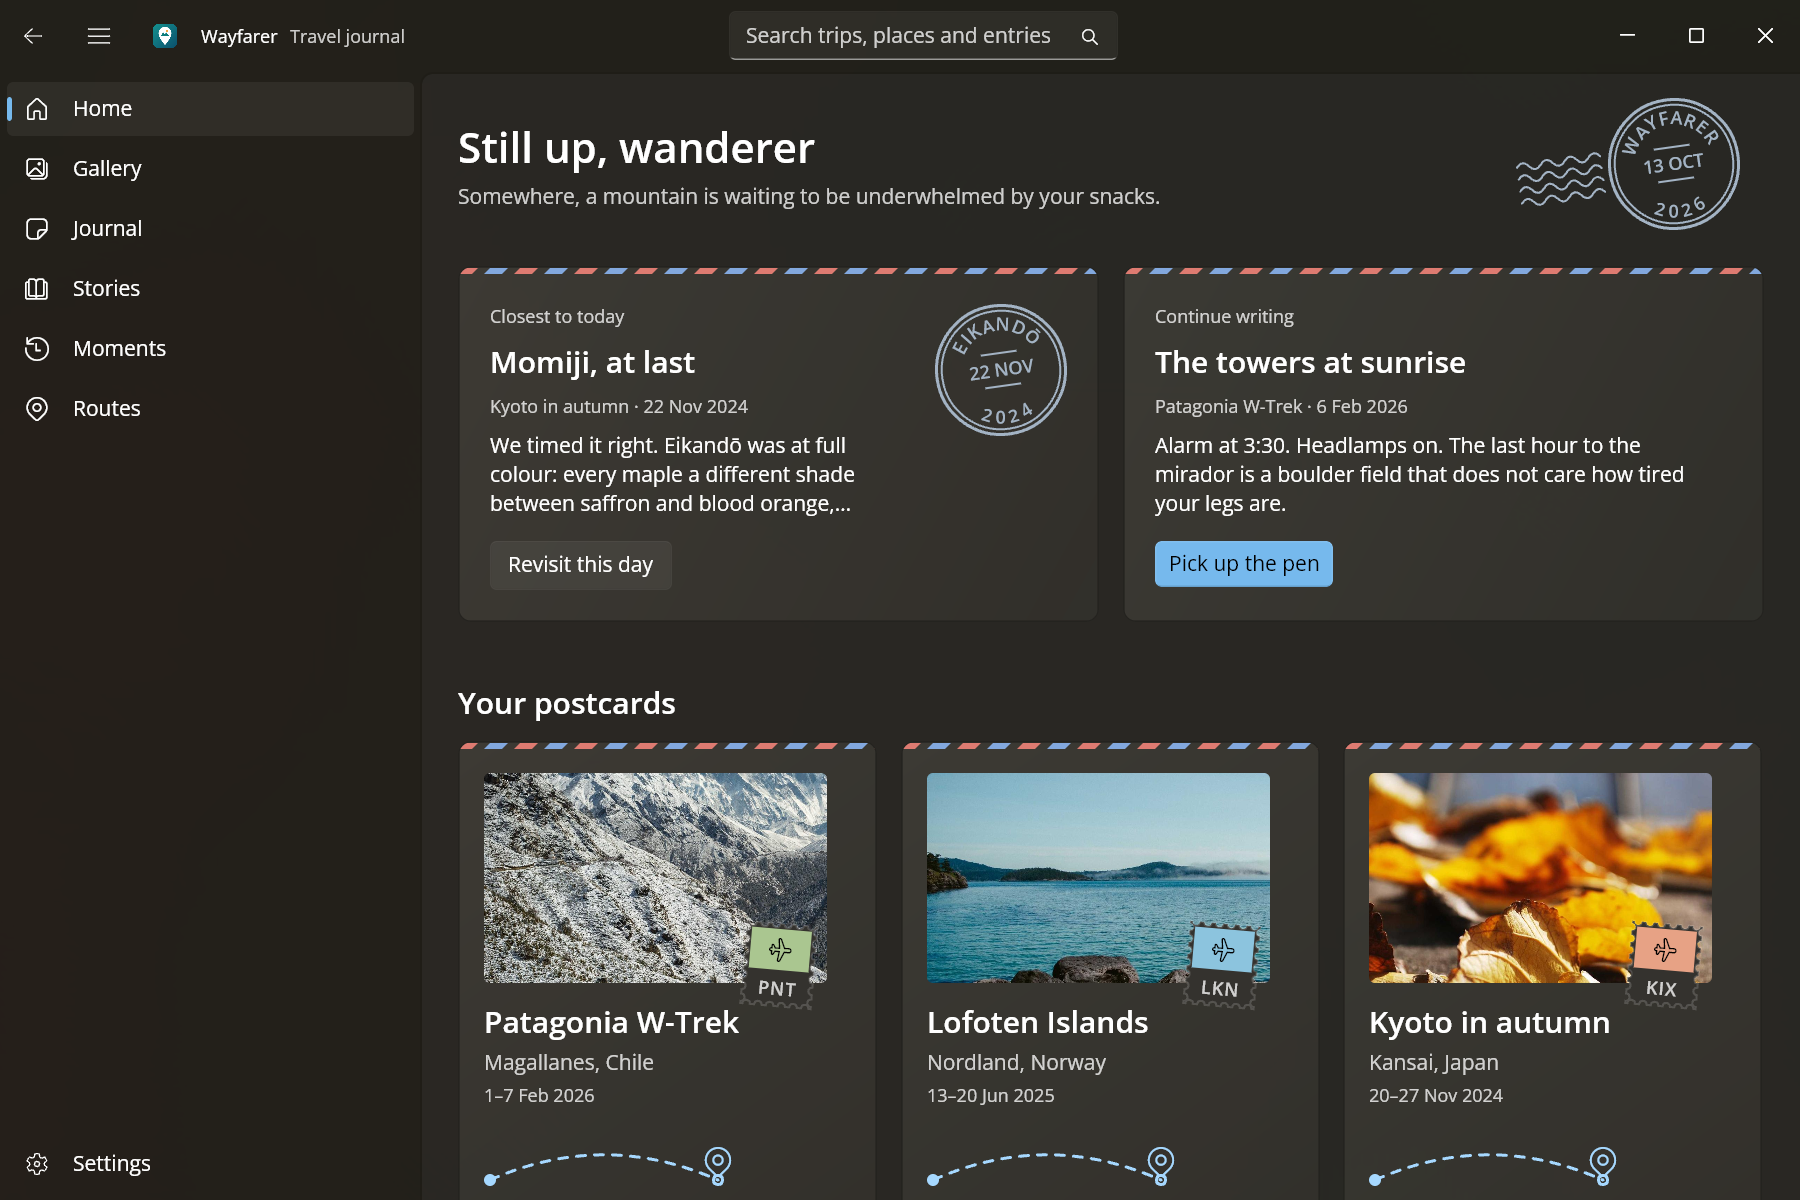
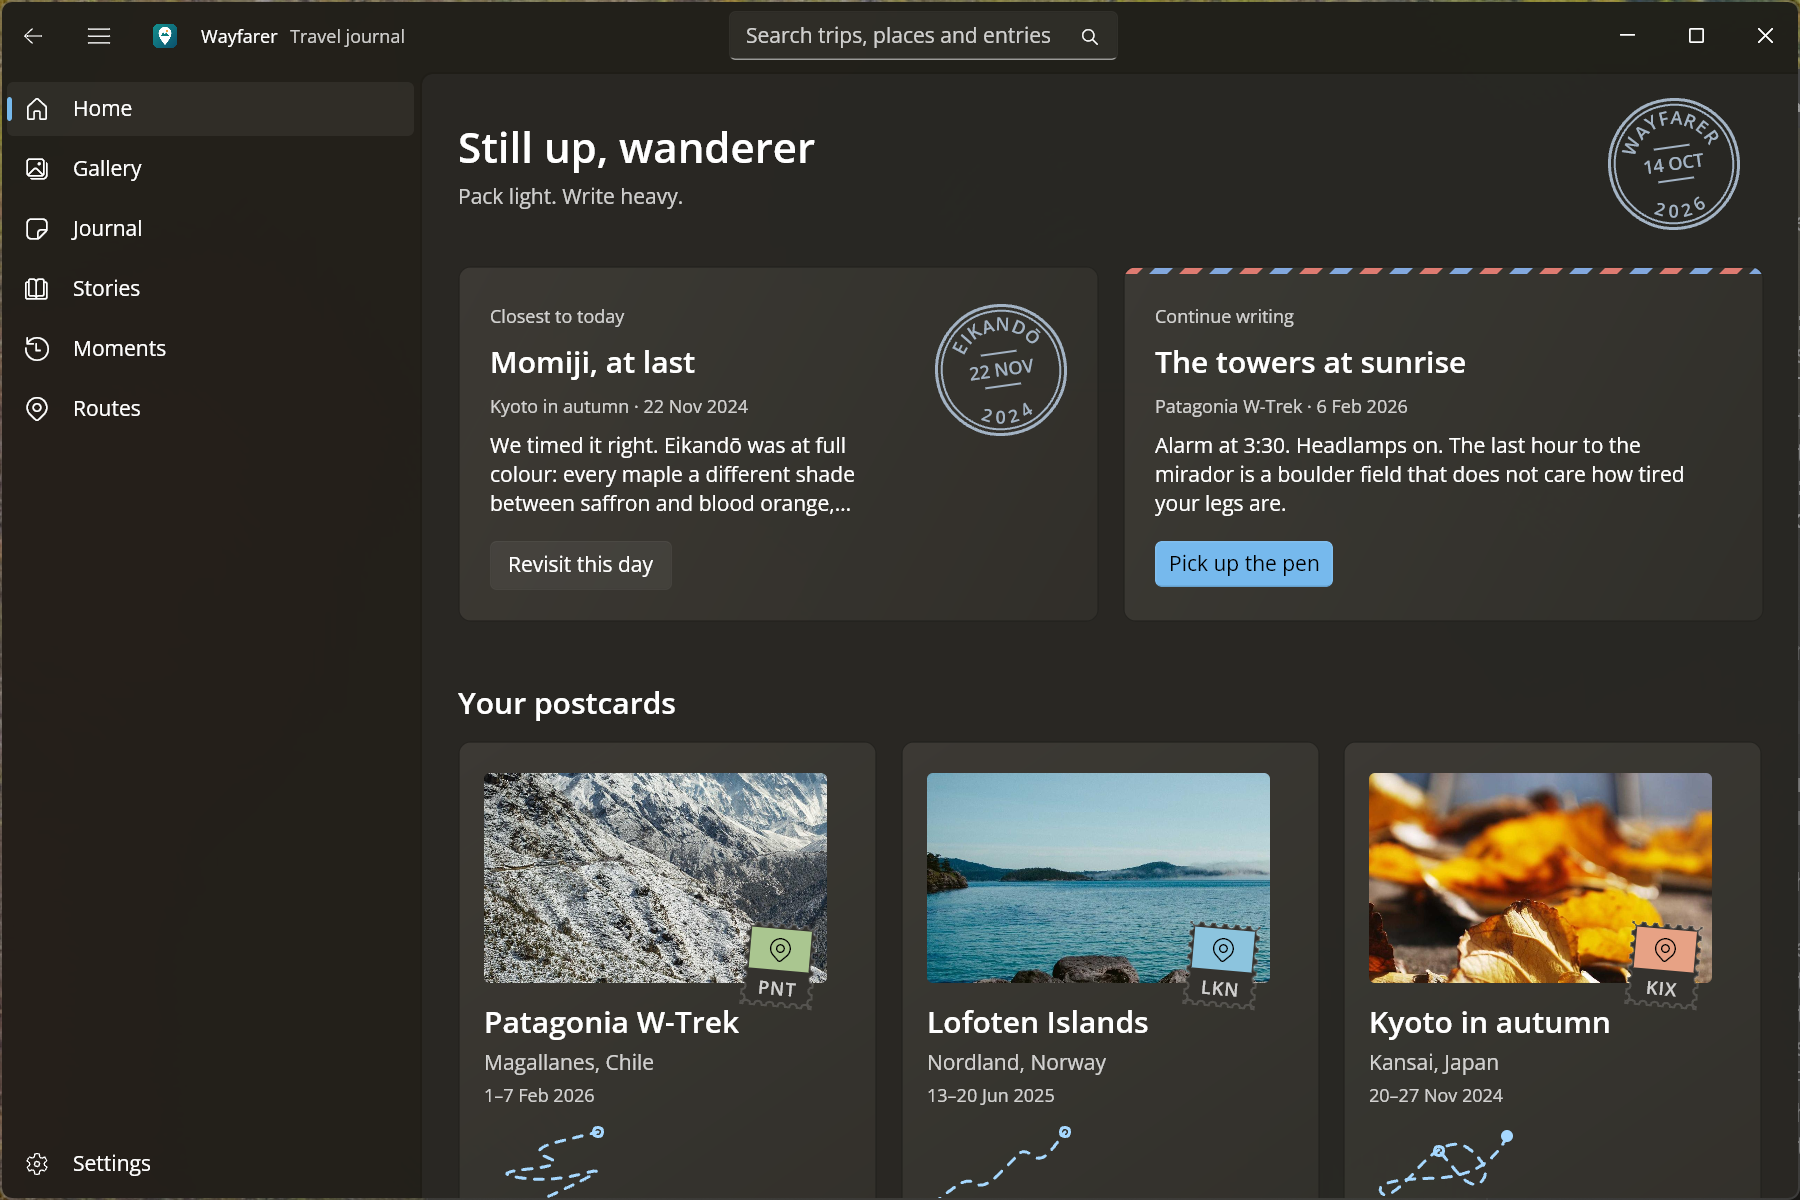
docs: Recapture screenshots after the motif pass

diff --git a/README.md b/README.md
@@ -8,16 +8,16 @@ It dresses up as a box of postcards (perforated stamps, postmarks, airmail edges
 
 <p align="center">
   <img src="docs/screenshots/home-light.png" alt="Home in the light theme: a greeting with a postmark, a postcard from this day in past trips, and trip postcards with stamps and dashed routes" width="49%" />
-  <img src="docs/screenshots/map-dark.png" alt="Routes in the dark theme: postage stamps for each stop joined by a dashed route on a postcard map" width="49%" />
+  <img src="docs/screenshots/map-dark.png" alt="Routes in the dark theme: numbered postage stamps for each stop joined by a dashed route on a postcard map" width="49%" />
 </p>
 
 ## What Uno Platform 7.0 features this shows
 
 | Feature | Where to see it | Where it lives |
 | --- | --- | --- |
-| **Composition shapes and animation**: the route is a `ShapeVisual` of `CompositionLineGeometry` dashes drawn in by stepping `TrimEnd`, along a centripetal Catmull-Rom curve, with a plane flown along it by `Vector3KeyFrameAnimation` and `ScalarKeyFrameAnimation` | Routes | [`Views/MapPage.xaml.cs`](Wayfarer/Views/MapPage.xaml.cs) |
+| **Composition shapes and animation**: the route is a `ShapeVisual` of `CompositionLineGeometry` dashes drawn in by stepping `TrimEnd`, along a centripetal Catmull-Rom curve with a chevron on each leg, and a plane flown along it by `Vector3KeyFrameAnimation` and `ScalarKeyFrameAnimation` | Routes | [`Views/MapPage.xaml.cs`](Wayfarer/Views/MapPage.xaml.cs) |
 | **Connected animation** from a trip postcard's cover to the stamp on its route. WinAppSDK uses `ConnectedAnimationService`; Uno Platform still stubs it, so the Skia heads fly a copy of the photo in a `Popup` | Home → Routes | [`Helpers/HeroTransition.cs`](Wayfarer/Helpers/HeroTransition.cs), [`Views/HomePage.xaml.cs`](Wayfarer/Views/HomePage.xaml.cs) |
-| **Postcard motif kit**: perforated `PostageStamp`, `Postmark` lettered on an arc, `RouteLine` and `PostcardCard`, all decorative (`AccessibilityView="Raw"`) and quiet when animations are off | Every page | [`Controls/Postcard`](Wayfarer/Controls/Postcard), [`Styles/Postcard.xaml`](Wayfarer/Styles/Postcard.xaml) |
+| **Postcard motif kit**: perforated `PostageStamp`, `Postmark` lettered on an arc, `RouteLine`, a `RouteSketch` of each trip's real route and `PostcardCard`. All decorative: `AccessibilityView="Raw"` plus an automation peer with no children, so screen readers skip the lettering. Quiet when animations are off | Every page | [`Controls/Postcard`](Wayfarer/Controls/Postcard), [`Styles/Postcard.xaml`](Wayfarer/Styles/Postcard.xaml) |
 | **ItemsRepeater** with `UniformGridLayout` and `AdaptiveTrigger` reflow | Home | [`Views/HomePage.xaml`](Wayfarer/Views/HomePage.xaml) |
 | **LinedFlowLayout** in an `ItemsView`, using `LineHeight`, `LineSpacing`, `ItemsJustification`, `ItemsStretch` and `ItemsInfoRequested` aspect ratios | Gallery | [`Views/GalleryPage.xaml`](Wayfarer/Views/GalleryPage.xaml), [`GalleryPage.xaml.cs`](Wayfarer/Views/GalleryPage.xaml.cs) |
 | **RichEditBox** with bold, italic, underline, strikethrough, font colour, links, undo/redo, and RTF import/export through `Document.GetText`/`SetText` | Journal | [`Views/JournalEntryEditor.xaml`](Wayfarer/Views/JournalEntryEditor.xaml), [`JournalEntryEditor.xaml.cs`](Wayfarer/Views/JournalEntryEditor.xaml.cs), [`Helpers/RtfBuilder.cs`](Wayfarer/Helpers/RtfBuilder.cs) |
@@ -113,7 +113,7 @@ On the web you need a browser with WebGPU enabled. The WebAssembly build links D
 - **Your journal stays on your device.** The trips, photos and starting entries ship in [`Assets/Data/trips.json`](Wayfarer/Assets/Data/trips.json). New, edited and deleted entries are saved to the app's local folder (IndexedDB in the browser) and replayed over that catalog. Nothing syncs between devices.
 - **Multi-window needs an iPad on Apple devices.** iPhone has no multi-scene support, so the "Open in new window" command is hidden there. Desktop heads always offer it. Android and the web don't offer it at all.
 - **The trips are made up.** The photos are stock images from Unsplash, so captions describe what's in the frame rather than naming landmarks.
-- **A few Uno Platform 7.0 preview gaps are worked around in the code**, each with a comment at the spot: `ConnectedAnimationService` is a stub on Skia (Home flies the photo itself), animating `CompositionGeometry.TrimEnd` doesn't render yet (the route steps `TrimEnd` each frame), and leaving a scrolled page could leave its pixels behind (the shell repaints the frame after each navigation).
+- **A few Uno Platform 7.0 preview gaps are worked around in the code**, each with a comment at the spot: `ConnectedAnimationService` is a stub on Skia (Home flies the photo itself), animating `CompositionGeometry.TrimEnd` doesn't render yet (the route steps `TrimEnd` each frame), leaving a scrolled page could leave its pixels behind (the shell repaints the frame after each navigation), and the web's accessibility tree ignores an automation peer's children (the motif's text is also marked Raw letter by letter).
 - **iOS and tvOS were compile-checked only.** Both heads were built on Windows for the simulator, but they haven't been run on an iPad or an Apple TV yet.
 
 ## Credits and license
